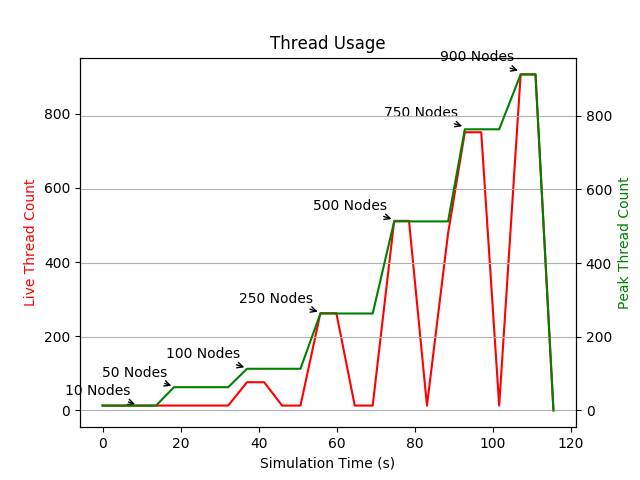
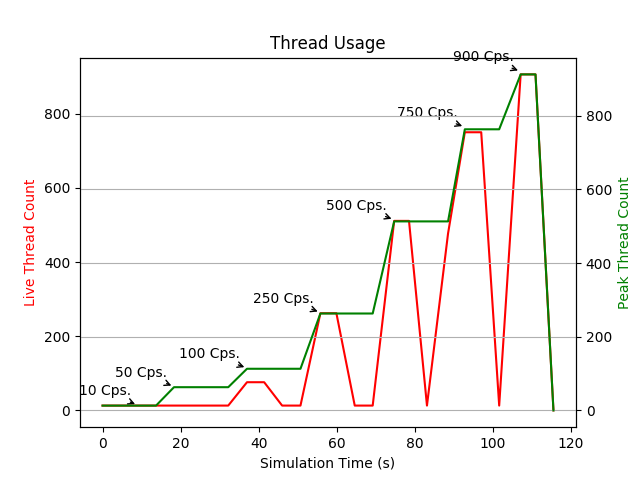
Changed Names

diff --git a/examples/broadcast/simple/graph.py b/examples/broadcast/simple/graph.py
@@ -11,7 +11,7 @@ lablesXI = [2, 4, 8, 12, 16, 20, 23]
 lablesY = [14, 64, 114, 264, 514, 764, 914]
 for i in range(0, len(lables)):
     plt.annotate(
-        str(lables[i]) + " Nodes",
+        str(lables[i]) + " Cps.",
         xy=(df['ts'].iloc[lablesXI[i]], lablesY[i]), xytext=(-5, 5),
         textcoords='offset points', ha='right', va='bottom',
         arrowprops=dict(arrowstyle = '->', connectionstyle='arc3,rad=0'))
@@ -38,7 +38,7 @@ lablesXI = [3, 8, 10, 12, 16, 19, 23]
 lablesY = [2.3, 2.3, 4.3, 6.0, 12.2, 10.1, 5.8]
 for i in range(0, len(lables)):
     plt.annotate(
-        str(lables[i]) + " Nodes",
+        str(lables[i]) + " Cps.",
         xy=(df['ts'].iloc[lablesXI[i]], lablesY[i]), xytext=(-5, 5),
         textcoords='offset points', ha='right', va='bottom',
         arrowprops=dict(arrowstyle = '->', connectionstyle='arc3,rad=0'))
